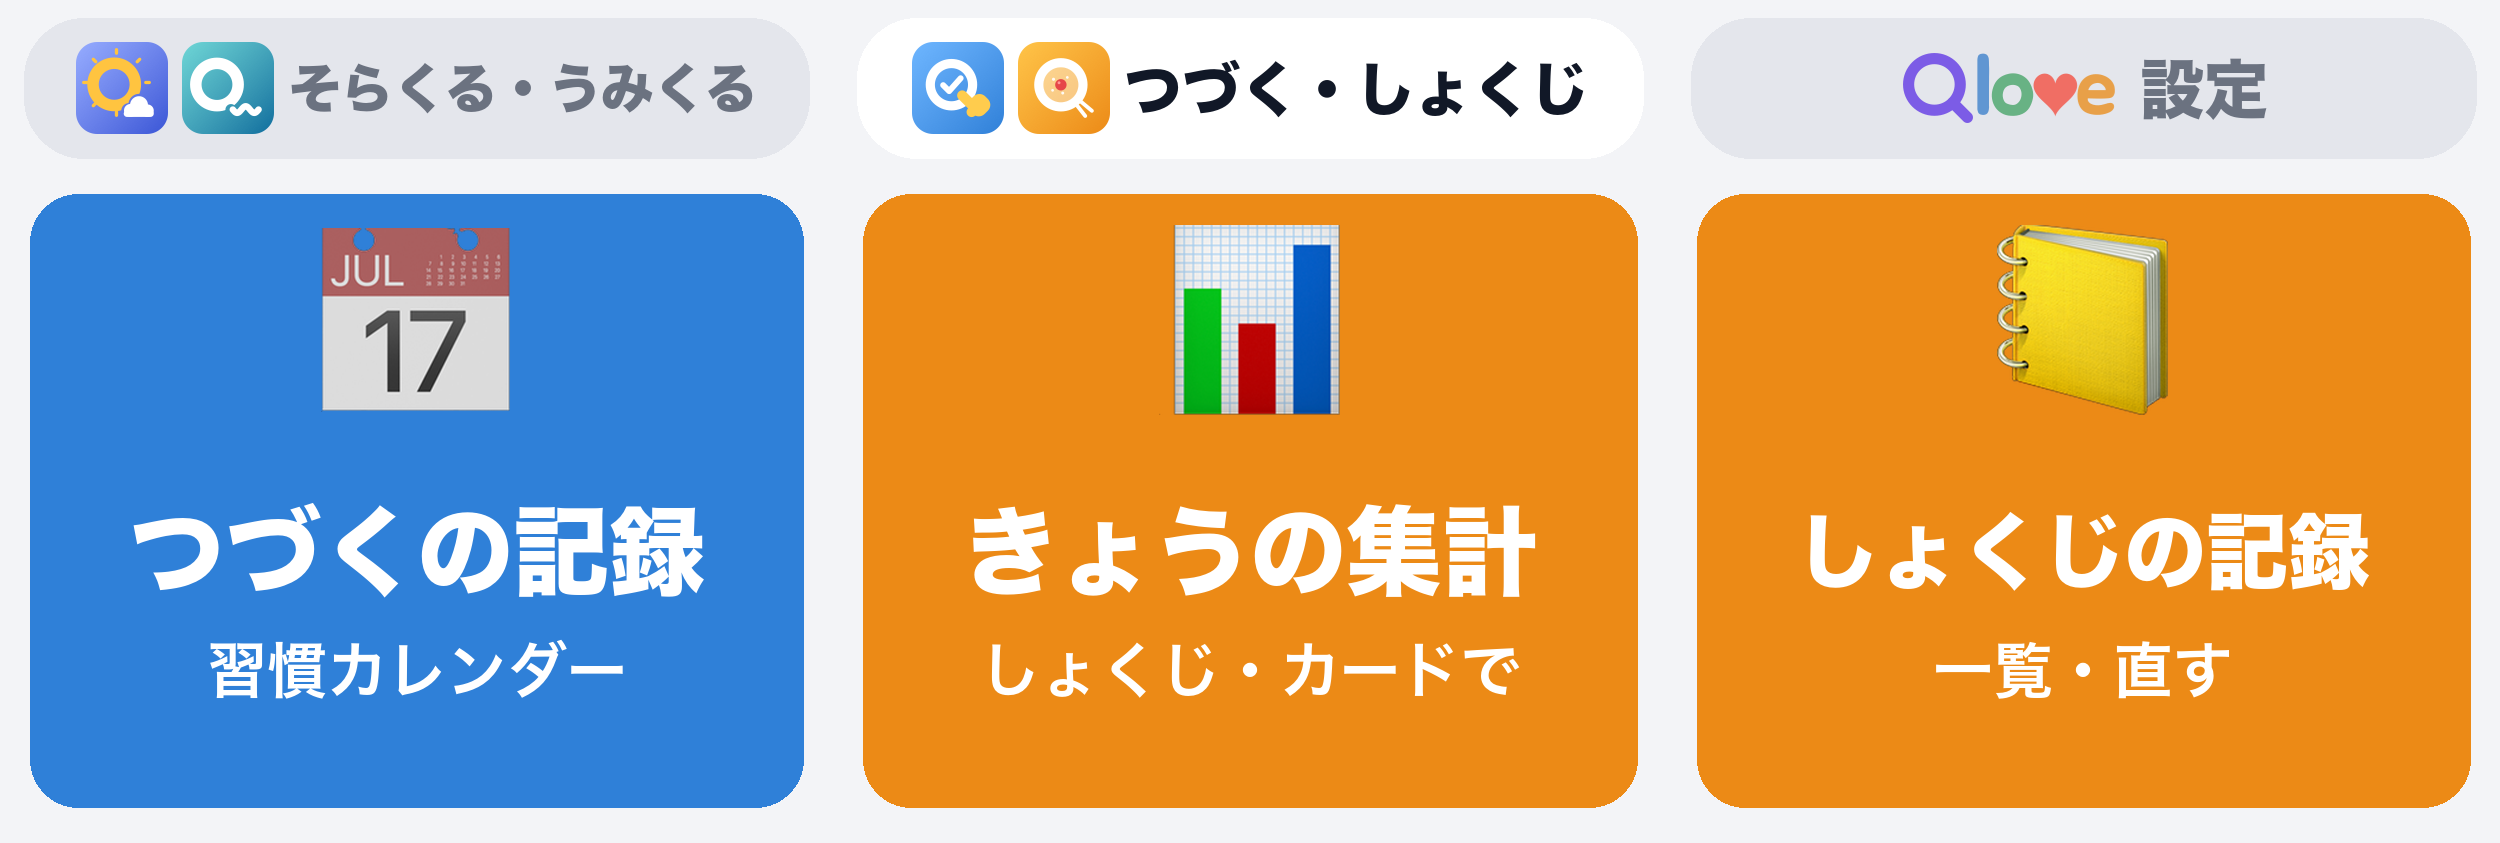
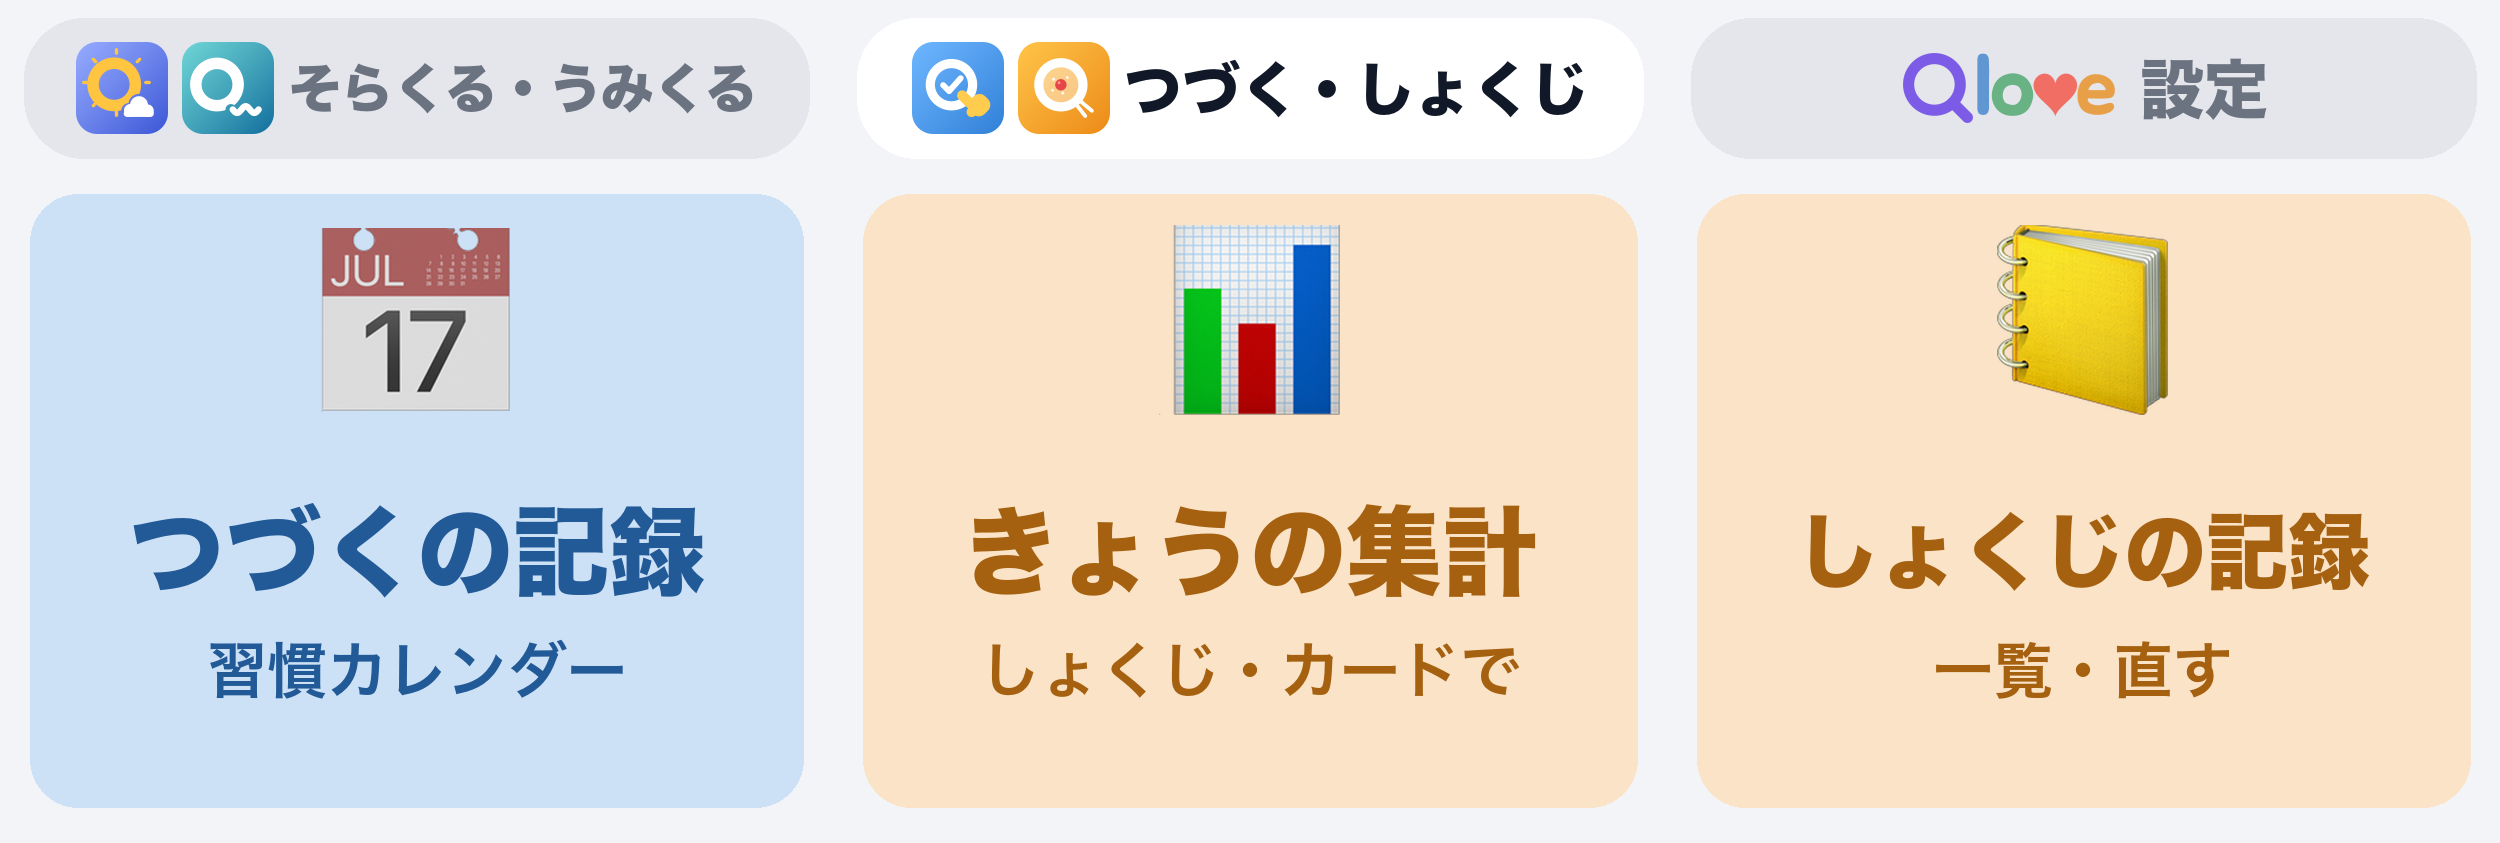
[update] くらぶボット：3つのタブのボタンを、アプリの色のうすい地と濃い字に

diff --git a/tools/richmenu.py b/tools/richmenu.py
@@ -2,7 +2,7 @@
 """くらぶボットの、トークの下のメニューの画像を作る（assets/richmenu-*.png・2500×843）。
 
 上の 170 がタブの行（2つ：左はいちばん先の機能のツール（アイコン＋名前）／右はくらぶ（Qlove の横長のロゴ）。
-3つ：そらくる・うみくる／つづく・しょくじ／Qlove の設定。richmenu-3-*.png。ボタンはアプリのアイコンの色）、
+3つ：そらくる・うみくる／つづく・しょくじ／Qlove の設定。richmenu-3-*.png。ボタンの地はアプリのアイコンの色をうすく、字は濃く）、
 下の 673 にボタン（3つは横1列・4つは 2×2・6つは 2×3・8つは 2×4）。
 アイコン・ロゴは、となりの q-shoquji・q-soraqru・q-umiqru・q-oqrn の SVG を tools/svg2png.swift で PNG にして使う（macOS）。
 並びは lib/08_richmenu.gs（タブ・右のタブの組み合わせ RICH_CLUB_IMAGES_）と、機能の richMenu.areas（lib/61_meal.gs・50_weather.gs・56_sea.gs）と同じにする。
@@ -94,10 +94,12 @@ APP = {"soraqru": (58, 86, 214), "umiqru": (14, 110, 158), "tuzuq": (47, 128, 21
 BG3 = (243, 244, 247)  # 背景（1色。グラデーションにしない）
 TAB_OFF = (228, 230, 236)
 INK, INK_SUB = (17, 24, 39), (107, 114, 128)
+PALE = lambda c: tuple(round(255 - (255 - v) * 0.24) for v in c)  # noqa: E731 ボタンの地：アプリの色をうすく
+DEEP = lambda c: tuple(round(v * 0.7) for v in c)  # noqa: E731 ボタンの字：アプリの色を濃く（うすい地の上で読める）
 
 
 def draw3(name, active, buttons):
-    """3つのタブの画像。buttons … [(絵文字, 題, 小さい字, アプリ)]。ボタンはアプリの色で塗り、字は白"""
+    """3つのタブの画像。buttons … [(絵文字, 題, 小さい字, アプリ)]。ボタンの地はアプリの色をうすく、字はアプリの色を濃く"""
     img = Image.new("RGBA", (W, H), BG3 + (255,))
     d = ImageDraw.Draw(img)
     tw = W / 3
@@ -130,20 +132,20 @@ def draw3(name, active, buttons):
         x0, y0 = pw * (i % cols), TAB + ph * (i // cols)
         box = (x0 + 30, y0 + (24 if rows == 1 else 18), x0 + pw - 30, y0 + ph - (36 if rows == 1 else 14))
         cx, top = x0 + pw / 2, y0
+        d.rounded_rectangle(box, radius=48, fill=PALE(APP[app]))
         if ch == "logo":
-            # アプリの横長のロゴ（押すとアプリが開く）：白い地に、アプリの色のふち
-            d.rounded_rectangle(box, radius=48, fill=(255, 255, 255), outline=APP[app], width=8)
+            # アプリの横長のロゴ（押すとアプリが開く）
             logo = svg(title, 150)
             if logo.width > pw - 140:
                 logo = logo.resize((int(pw - 140), int(logo.height * (pw - 140) / logo.width)), Image.LANCZOS)
             img.alpha_composite(logo, (int(cx - logo.width / 2), int((box[1] + box[3]) / 2 - logo.height / 2)))
             continue
-        d.rounded_rectangle(box, radius=48, fill=APP[app])
+        ink = DEEP(APP[app])
         if rows == 1:
             e = emoji(ch, 190)
             img.alpha_composite(e, (int(cx - e.width / 2), int(top + 150 - e.height / 2)))
-            d.text((cx, top + 380), title, font=fit(d, title, 8, 104, pw - 72 - 180), fill=(255, 255, 255), anchor="mm")
-            d.text((cx, top + 500), sub, font=HIRA(6, 60), fill=(255, 255, 255), anchor="mm")
+            d.text((cx, top + 380), title, font=fit(d, title, 8, 104, pw - 72 - 180), fill=ink, anchor="mm")
+            d.text((cx, top + 500), sub, font=HIRA(6, 60), fill=ink, anchor="mm")
         else:
             e = emoji(ch, 132)
             title_font = fit(d, title, 8, 84, pw - 60 - 200)
@@ -151,8 +153,8 @@ def draw3(name, active, buttons):
             left = cx - (e.width + 34 + tw2) / 2
             mid = top + ph / 2 + 2
             img.alpha_composite(e, (int(left), int(mid - e.height / 2)))
-            d.text((left + e.width + 34, mid - 30), title, font=title_font, fill=(255, 255, 255), anchor="lm")
-            d.text((left + e.width + 34, mid + 50), sub, font=HIRA(6, 46), fill=(255, 255, 255), anchor="lm")
+            d.text((left + e.width + 34, mid - 30), title, font=title_font, fill=ink, anchor="lm")
+            d.text((left + e.width + 34, mid + 50), sub, font=HIRA(6, 46), fill=ink, anchor="lm")
     out = ROOT / "assets" / f"richmenu-{name}.png"
     img.convert("RGB").save(out, optimize=True)
     print(f"{out.relative_to(ROOT)}（{out.stat().st_size // 1024}KB）")

diff --git a/README.md b/README.md
@@ -47,7 +47,7 @@
 ### 🎣 釣り（うみくる）だけの決まり
 
 - 釣った魚の写真を送ると「どこで釣った？」のクイックリプライ：前の釣り場（最近使った順に5つ）・📍 釣り場を登録（位置情報。地図のピンを動かしてほかの場所も送れる）。1回押すだけで記録できる
-- トークの下のメニュー：天気・釣り・しょくじ・記録がそろうボットは3つのタブ（そらくる・うみくる：1段ずつ アプリの横長のロゴ（開く）・天気の知らせ・天気の地点を登録／うみくるのロゴ・釣れた・釣り場を登録。つづく・しょくじ：つづくの記録・きょうの集計・しょくじの記録。Qlove の設定：できること・つなぐ・使う人。ボタンはアプリのアイコンの色。assets/richmenu-3-*.png。くらぶボットだけ ux.md の H6「2つまで」の例外）。そろわないときは2つのタブ（左がいちばん先の機能・右が Qlove）。釣りがいちばん先の機能なら、左のタブがうみくる（釣れた・釣り場・うみくるで見る。richmenu-sea.png）
+- トークの下のメニュー：天気・釣り・しょくじ・記録がそろうボットは3つのタブ（そらくる・うみくる：1段ずつ アプリの横長のロゴ（開く）・天気の知らせ・天気の地点を登録／うみくるのロゴ・釣れた・釣り場を登録。つづく・しょくじ：つづくの記録・きょうの集計・しょくじの記録。Qlove の設定：できること・つなぐ・使う人。ボタンの地はアプリのアイコンの色をうすく、字はその色を濃く。assets/richmenu-3-*.png。くらぶボットだけ ux.md の H6「2つまで」の例外）。そろわないときは2つのタブ（左がいちばん先の機能・右が Qlove）。釣りがいちばん先の機能なら、左のタブがうみくる（釣れた・釣り場・うみくるで見る。richmenu-sea.png）
 - 写真がなくても記録できる：「釣れた」「釣果」（「釣れた アジ」なら魚の名前も）と送るか、メニューの「🐟 釣れた（写真なし）」。時刻は送った・押した時刻で、あとは写真と同じ（どこで釣ったかを聞いて記録）。記録の印（messageId）は文のメッセージの番号、ボタンなら t＋時刻
 - 写真を受けるのは釣りだけ（しょくじの写真の機能はやめた。前に付けた写真の列 imageFileId・imageUrl はシートに残す）。1対1 のトークで、使える人の写真だけ
 - 時刻は「写真を送った時刻」（LINE で送った写真には、撮った時刻が残らないことが多い）。7日より前のボタンは受けない
